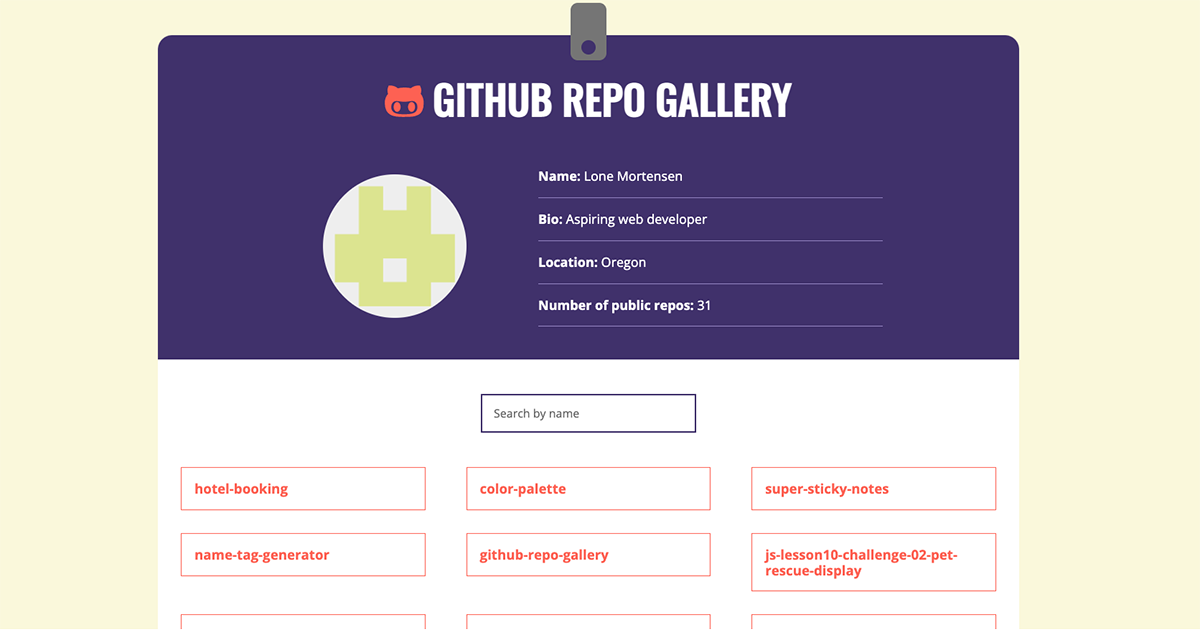
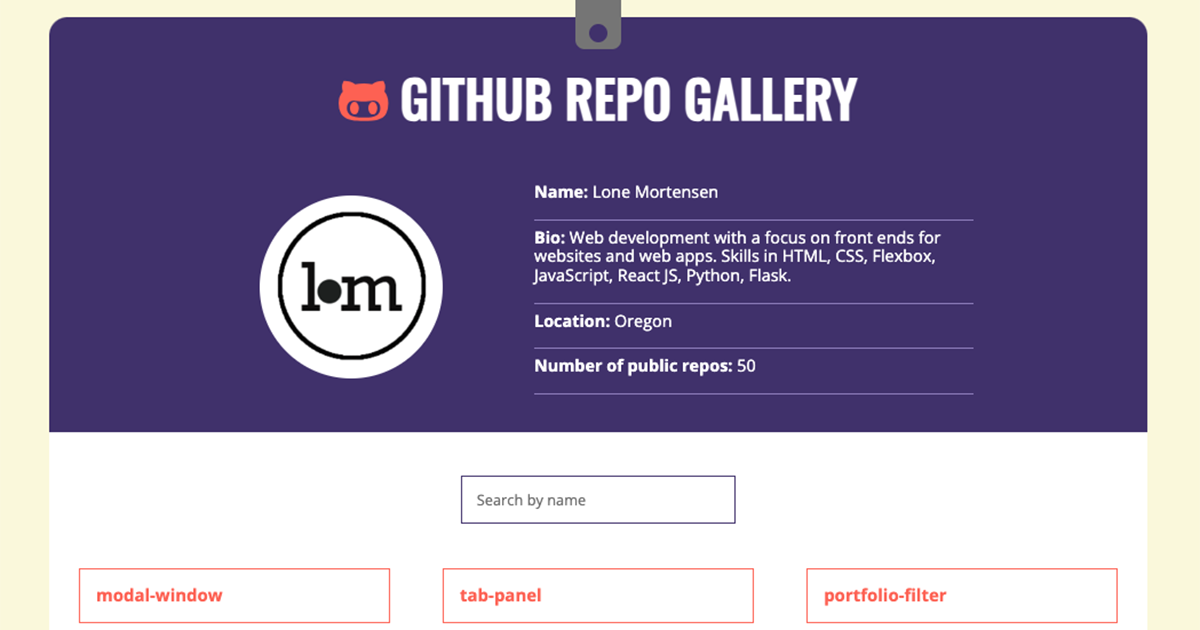
Updated portfolio projects section

diff --git a/index.html b/index.html
@@ -88,7 +88,7 @@ Description:  For documention of personal web development projects.
       <!--scroll-down animation-->
       <div class="scroll-down-pointer">
         <p class="scroll-down-text">Scroll</p>
-       <div class="cirle-pointer-wrapper">
+       <div class="circle-pointer-wrapper">
           <div class="circle-pointer"></div> 
        </div>
       </div>
@@ -109,12 +109,12 @@ Description:  For documention of personal web development projects.
           <article class="project-item">
             <div class="project-background">
               <div class="project-header">
-                <h4 class="project-header-orange">Unplugged Retreat</h4>
+                <h4 class="project-header-orange">Supervillain Trading Cards</h4>
               </div>
               <div class="project-line"></div>
-              <p class="project-description">A multi-page website, using Flexbox to automatically adjust to different screen sizes.</p>
+              <p class="project-description">With this interactive web app, users can add and delete their own supervillain trading cards.</p>
               <div class="project-skills">
-                <p>Built with HTML5, CSS3, Flexbox.</p>
+                <p>Built with Python, Flask, SQL database, JavaScript, REST API.</p>
               </div>
               <div class="project-view-button">
                 <button type="button" id="project-1" class="view-project project-button-style">View +</button>
@@ -125,12 +125,12 @@ Description:  For documention of personal web development projects.
           <article class="project-item">
             <div class="project-background">
               <div class="project-header">
-                <h4 class="project-header-green">Super Sticky Notes</h4>
+                <h4 class="project-header-green">Portfolio Gallery Filter</h4>
               </div>
               <div class="project-line"></div>
-              <p class="project-description">This web app lets users create, edit, delete, and search in sticky notes.</p>
+              <p class="project-description">The gallery filter ensures that only web projects selected by the user are displayed.</p>
               <div class="project-skills">
-                <p>Built with React JS, JSX.</p>
+                <p>Built with JavaScript, HTML5, CSS3, Flexbox.</p>
               </div>
               <div class="project-view-button">
                 <button type="button" id="project-2" class="view-project project-button-style ">View +</button>
@@ -141,12 +141,12 @@ Description:  For documention of personal web development projects.
           <article class="project-item">
             <div class="project-background">
               <div class="project-header">
-                <h4 class="project-header-pink">Guess the Word Game</h4>
+                <h4 class="project-header-pink">Super Sticky Notes</h4>
               </div>
               <div class="project-line"></div>
-              <p class="project-description">The game fetches and displays a random word and the user has 8 attempts to guess the word.</p>
+              <p class="project-description">This web app lets users create, edit, delete, and search in their sticky notes.</p>
               <div class="project-skills">
-                <p>Built with HTML5, CSS3, JavaScript.</p>
+                <p>Built with React JS, JSX.</p>
               </div>
               <div class="project-view-button">
                 <button type="button" id="project-3" class="view-project project-button-style">View +</button>
@@ -157,12 +157,12 @@ Description:  For documention of personal web development projects.
           <article class="project-item">
             <div class="project-background">
               <div class="project-header">
-                <h4 class="project-header-green">Name Tag Generator</h4>
+                <h4 class="project-header-green">GitHub Repo Gallery</h4>
               </div>
               <div class="project-line"></div>
-              <p class="project-description">The app lets users create name tags based on their input. Name tags are saved between sessions.</p>
+              <p class="project-description">GitHub&apos;s API is used to pull data from a GitHub repo portfolio for display in a gallery.</p>
               <div class="project-skills">
-                <p>Built with React JS, JSX.</p>
+                <p>Built with JavaScript, REST API.</p>
               </div>
               <div class="project-view-button">
                 <button type="button" id="project-4" class="view-project project-button-style">View +</button>
@@ -173,12 +173,12 @@ Description:  For documention of personal web development projects.
           <article class="project-item">
             <div class="project-background">
               <div class="project-header">
-                <h4 class="project-header-pink">GitHub Repo Gallery</h4>
+                <h4 class="project-header-pink">More Modal Windows</h4>
               </div>
               <div class="project-line"></div>
-              <p class="project-description">This project uses GitHub&apos;s API to pull data from a GitHub portfolio to create a gallery.</p>
+              <p class="project-description">Users navigate between modal windows that open in front of the page to display content.</p>
               <div class="project-skills">
-                <p>Built with JavaScript, REST API, JSON.</p>
+                <p>Built with JavaScript, ES6 modules, HTML5, CSS3, Flexbox.</p>
               </div>
               <div class="project-view-button">
                 <button type="button" id="project-5" class="view-project project-button-style">View +</button>
@@ -189,12 +189,12 @@ Description:  For documention of personal web development projects.
           <article class="project-item">
             <div class="project-background">
               <div class="project-header">
-                <h4 class="project-header-orange">Supervillain Trading Cards</h4>
+                <h4 class="project-header-orange">Guess the Word Game</h4>
               </div>
               <div class="project-line"></div>
-              <p class="project-description">With this app, users interact with a database to add and delete female supervillain trading cards.</p>
+              <p class="project-description">This game fetches and displays a random word, giving users 8 attempts to guess it.</p>
               <div class="project-skills">
-                <p>Built with Python, Flask, SQL database, JavaScript, REST API.</p>
+                <p>Built with JavaScript, API.</p>
               </div>
               <div class="project-view-button">
                 <button type="button" id="project-6" class="view-project project-button-style">View +</button>

diff --git a/js/modalData.js b/js/modalData.js
@@ -17,51 +17,51 @@ The modalData.js module:
 const portfolioProjects = [ 
     { 
         id: "project-1", 
-        image: "img/unplugged-retreat-image-1200.png",
-	    title: "Unplugged Retreat",
-	    description: "A multi-page website for a fictional client coded from a Photoshop design comp. The website is responsive, using Flexbox to automatically adjust to different screen sizes.",
-        firstLink: "https://lonemortensen.github.io/206-unplugged-retreat/",
-	    secondLink: "https://github.com/lonemortensen/206-unplugged-retreat" 
+        image: "img/supervillain-trading-card-screenShot.png",
+	    title: "Supervillain Trading Cards",
+	    description: "The user inputs card data in an HTML form on the front end and the data is stored in an SQL database. The app, built with Flask, uses a REST API and JavaScript for routing and rendering data.",
+        firstLink: "https://replit.com/@lonemortensen/skillcrush-py-cl02-ls10-villain-cards-restAPI-flask-final#main.py",
+	    secondLink: "https://github.com/lonemortensen/villain-trading-cards-api" 
     },
 	{ 
         id: "project-2", 
-	    image: "img/super-sticky-notes-image-1200.png",
-	    title: "Super Sticky Notes",
-        description: "This is an interactive web app that lets users create, edit, delete, and search in sticky notes. Notes are saved to the browser's local storage between sessions. This project was built with React JS.",
-        firstLink: "https://bn2qgl.csb.app/",
-        secondLink: "https://github.com/lonemortensen/super-sticky-notes" 
+	    image: "img/portfolio-filter-image-1200.png",
+	    title: "Portfolio Gallery Filter",
+        description: "Users click on filter buttons to select which projects to view. JavaScript accesses HTML data attributes storing custom project data to create filter buttons and update the UI based on user selections.",
+        firstLink: "https://lonemortensen.github.io/portfolio-filter/",
+        secondLink: "https://github.com/lonemortensen/portfolio-filter?tab=readme-ov-file" 
     },
 	{ 
         id: "project-3", 
-        image: "img/guess-the-word-image-1200.png",
-        title: "Guess the Word",
-        description: "This project was built with JavaScript. The game fetches and displays a random word and the user has 8 attempts to guess the word.",
-        firstLink: "https://lonemortensen.github.io/guess-the-word/",
-        secondLink: "https://github.com/lonemortensen/guess-the-word" 
+        image: "img/super-sticky-notes-image-1200.png",
+        title: "Super Sticky Notes",
+        description: "Using React JS, this app handles dynamic content based on user input, offering real-time create, delete, edit, and search functionalities. Notes are saved to the browser's local storage between sessions.",
+        firstLink: "https://bn2qgl.csb.app/",
+        secondLink: "https://github.com/lonemortensen/super-sticky-notes" 
     }, 
     { 
         id: "project-4", 
-        image: "img/name-tag-generator-image-1200.png",
-        title: "Name Tag Generator",
-        description: "An interactive app built with React JS. Users can create name tags based on their input. Name tags are saved to the browser's local storage between sessions.",
-        firstLink: "https://1f6ixl.csb.app/",
-        secondLink: "https://github.com/lonemortensen/name-tag-generator" 
-    },
-    { 
-        id: "project-5", 
         image: "img/github-repo-gallery-image-1200.png",
         title: "GitHub Repo Gallery",
-        description: "This project uses GitHub's API to pull data from a GitHub portfolio to create a gallery of repos.",
+        description: "The gallery utilizes JavaScript and the GitHub REST API to fetch, display, and enable interaction with public GitHub repos. It pulls user and repo data and features a dynamic search function.",
         firstLink: "https://lonemortensen.github.io/github-repo-gallery/",
         secondLink: "https://github.com/lonemortensen/github-repo-gallery" 
     },
     { 
+        id: "project-5", 
+        image: "img/modal-windows-image-1200.png",
+        title: "More Modal Windows",
+        description: "Two separate modal window components are featured on the same web page. JavaScript ES6 modules allow for modal window functionality to be reused and applied to both. Use mouse or keyboard to navigate.",
+        firstLink: "https://lonemortensen.github.io/modal-window/",
+        secondLink: "https://github.com/lonemortensen/modal-window" 
+    },
+    { 
         id: "project-6", 
-        image: "img/supervillain-trading-card-screenShot.png",
-        title: "Supervillain Trading Cards",
-        description: "This project uses GitHub's API to pull data from a GitHub portfolio to create a gallery of repos.",
-        firstLink: "https://replit.com/@lonemortensen/skillcrush-py-cl02-ls10-villain-cards-restAPI-flask-final#main.py",
-        secondLink: "https://github.com/lonemortensen/villain-trading-cards-api" 
+        image: "img/guess-the-word-image-1200.png",
+        title: "Guess the Word Game",
+        description: "JavaScript and an API call are used to fetch random words from a text file and track game progress. The game validates player input and tracks letters and guesses while displaying messages on the UI.",
+        firstLink: "https://lonemortensen.github.io/guess-the-word/",
+        secondLink: "https://github.com/lonemortensen/guess-the-word" 
     }  
 ];
 

diff --git a/css/main.css b/css/main.css
@@ -524,7 +524,7 @@ footer p {
   margin: 50px 5px 0px 13px;
 }
 
-.cirle-pointer-wrapper {
+.circle-pointer-wrapper {
   margin: 0px 5px 5px 2px;
 }
 
